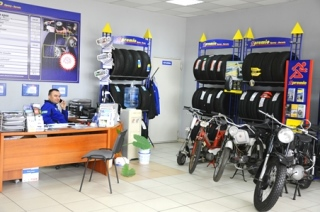
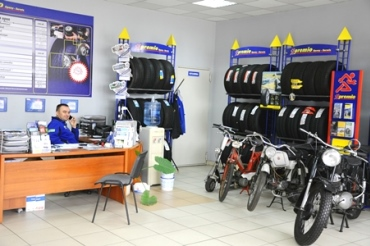
New views. Added footer.

diff --git a/app/assets/stylesheets/application.css b/app/assets/stylesheets/application.css
@@ -27,6 +27,7 @@ img:hover {
 */
     body { 
         padding-top: 20px;
+        padding-bottom: 20px;
         background-image: url('background.jpg');
         background-size: cover;
         background-attachment: fixed;
@@ -36,13 +37,23 @@ img:hover {
         -o-background-size: cover;
     }
 
+    #footer, #push {
+        height: auto;
+        background: #222222;
+        height: 200px;
+        margin: 20px 0;
+        border-radius: 6px;
+        border: 1px solid #000;
+    }
+
+
     .jumbotron {
         opacity: 0.85;
     }
 
     .grid-block-container {
     	/*float: left;*/
-    	width: 990px;
+    	width: 1140px;
     	margin: 0 0 0 0;
     }
     .grid-block {

diff --git a/config/routes.rb b/config/routes.rb
@@ -1,14 +1,18 @@
 Rails.application.routes.draw do
+  get 'messages/new'
+
   devise_for :admins
   resources :reservations, only: [:index, :new, :create, :show, :destroy]
   root "pages#index"
 
   match '/index' => 'pages#index', via: [:get, :post]
   match '/about' => 'pages#about', via: [:get, :post]
-  match '/contact' => 'pages#contact', via: [:get, :post]
+  get 'contact', to: 'messages#new', as: 'contact'
+  post 'contact', to: 'messages#create'
   match '/prices' => 'pages#prices', via: [:get, :post]
   match '/services' => 'pages#services', via: [:get, :post]
-  match '/our-services' => 'pages#our-services', via: [:get, :post]
+  match '/our-services' => 'pages#ourservices', via: [:get, :post]
+
   # The priority is based upon order of creation: first created -> highest priority.
   # See how all your routes lay out with "rake routes".
 

diff --git a/config/initializers/devise.rb b/config/initializers/devise.rb
@@ -4,7 +4,7 @@ Devise.setup do |config|
   # The secret key used by Devise. Devise uses this key to generate
   # random tokens. Changing this key will render invalid all existing
   # confirmation, reset password and unlock tokens in the database.
[2 lines of base64/hex data omitted]
 
   # ==> Mailer Configuration
   # Configure the e-mail address which will be shown in Devise::Mailer,

diff --git a/config/application.rb b/config/application.rb
@@ -22,5 +22,15 @@ module Serwis
 
     # Do not swallow errors in after_commit/after_rollback callbacks.
     config.active_record.raise_in_transactional_callbacks = true
+
+    config.action_mailer.smtp_settings = {
+        address: "smtp.gmail.com",
+        port: 587,
+        domain: "<example.tld>",
+        user_name: "krusmac",
+        password: "Krusmac11",
+        authentication: :plain,
+        enable_starttls_auto: true
+    }
   end
 end
